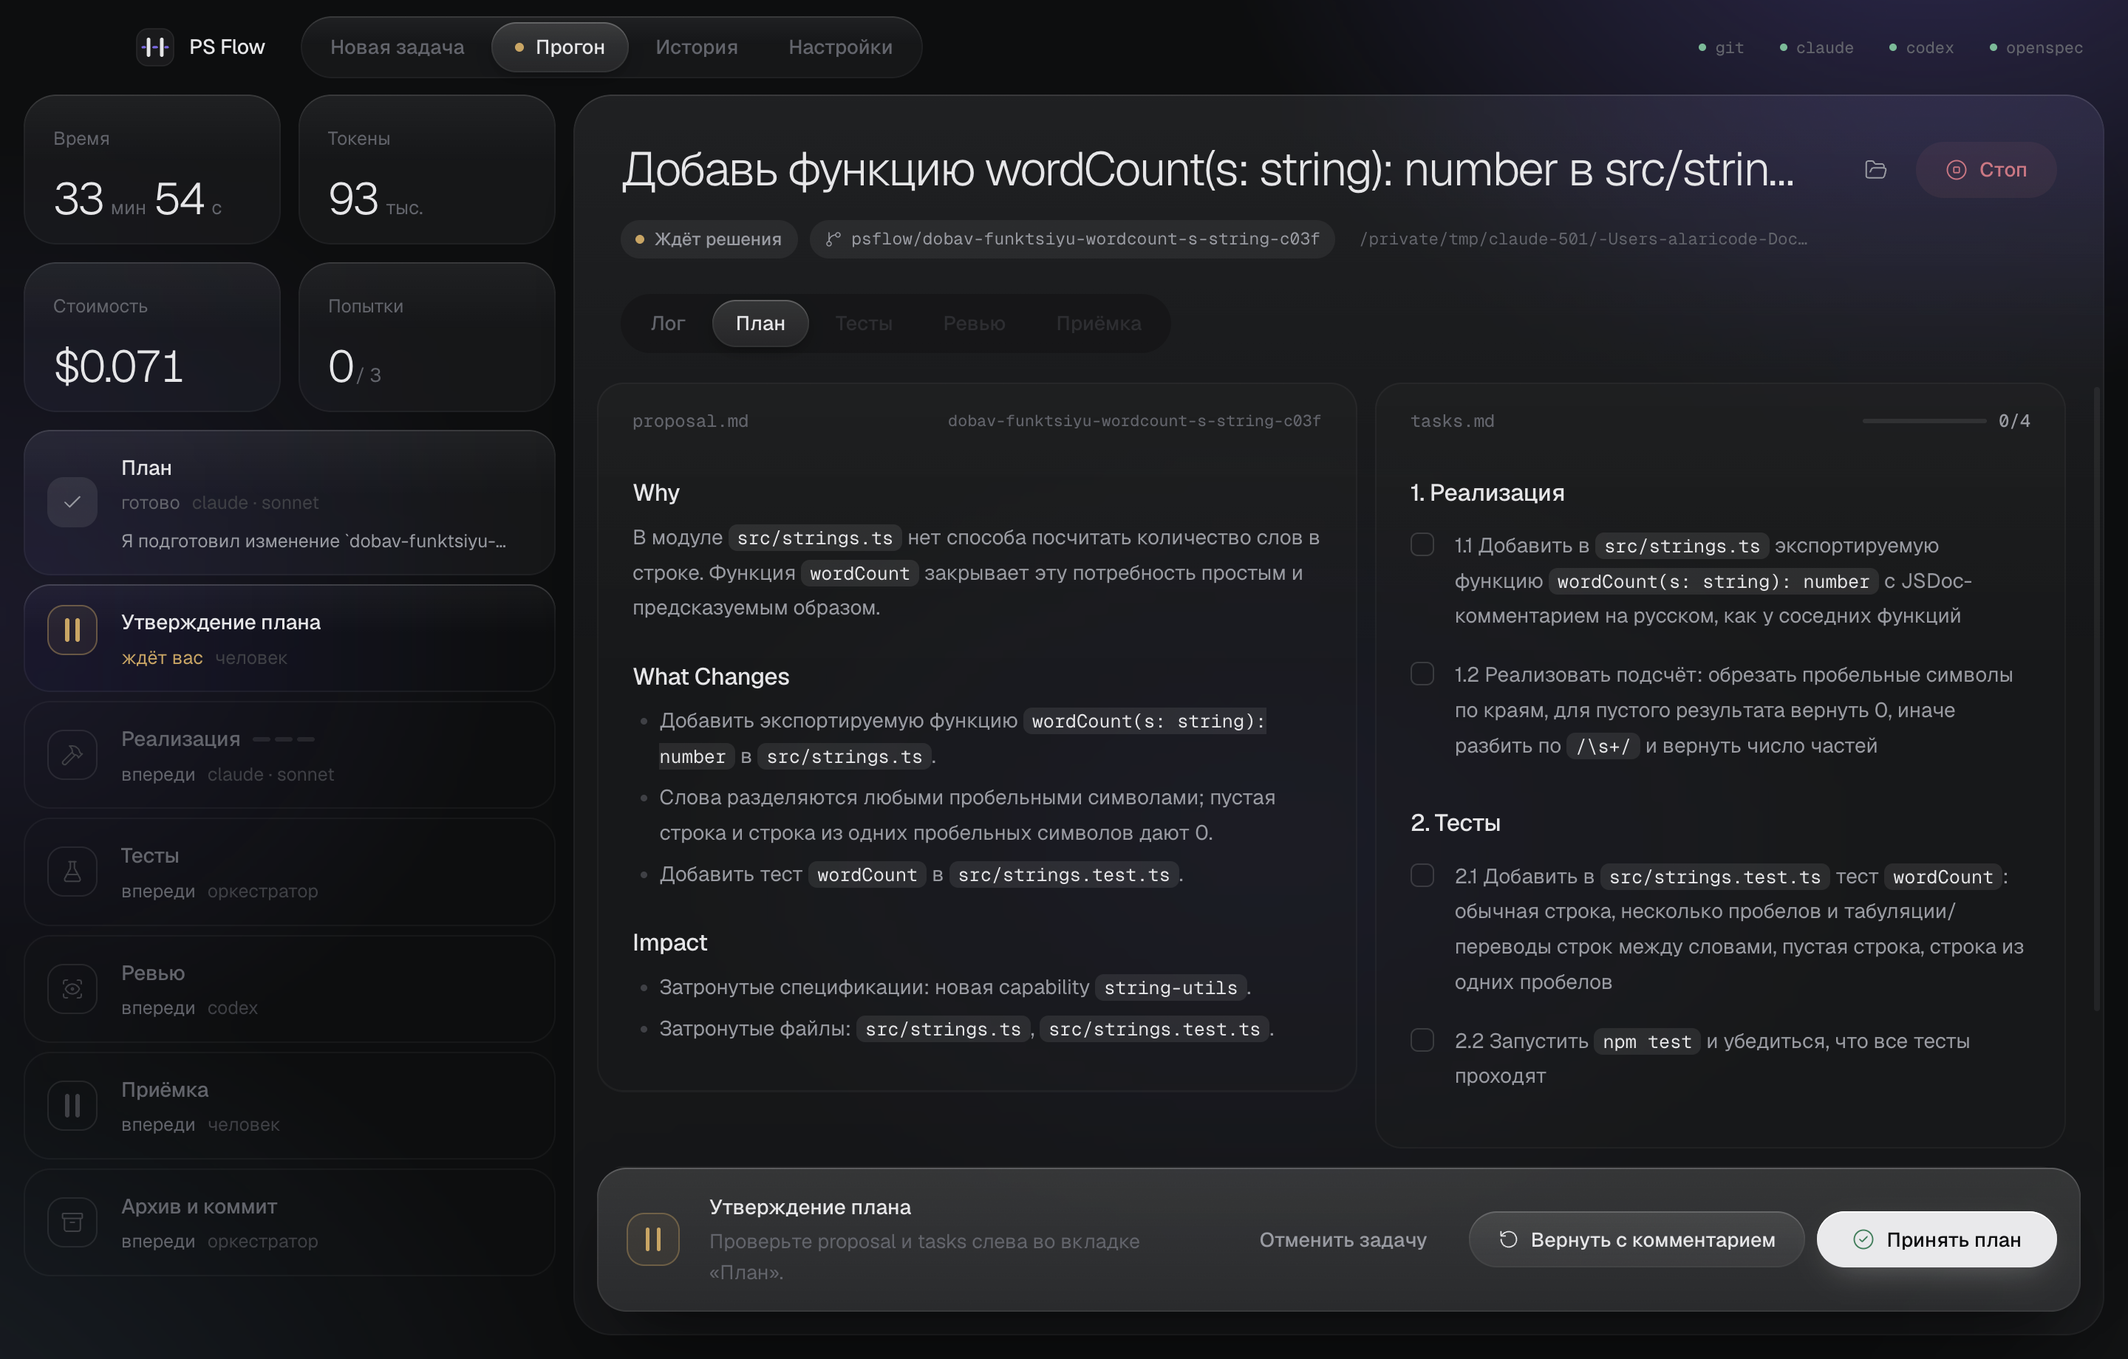
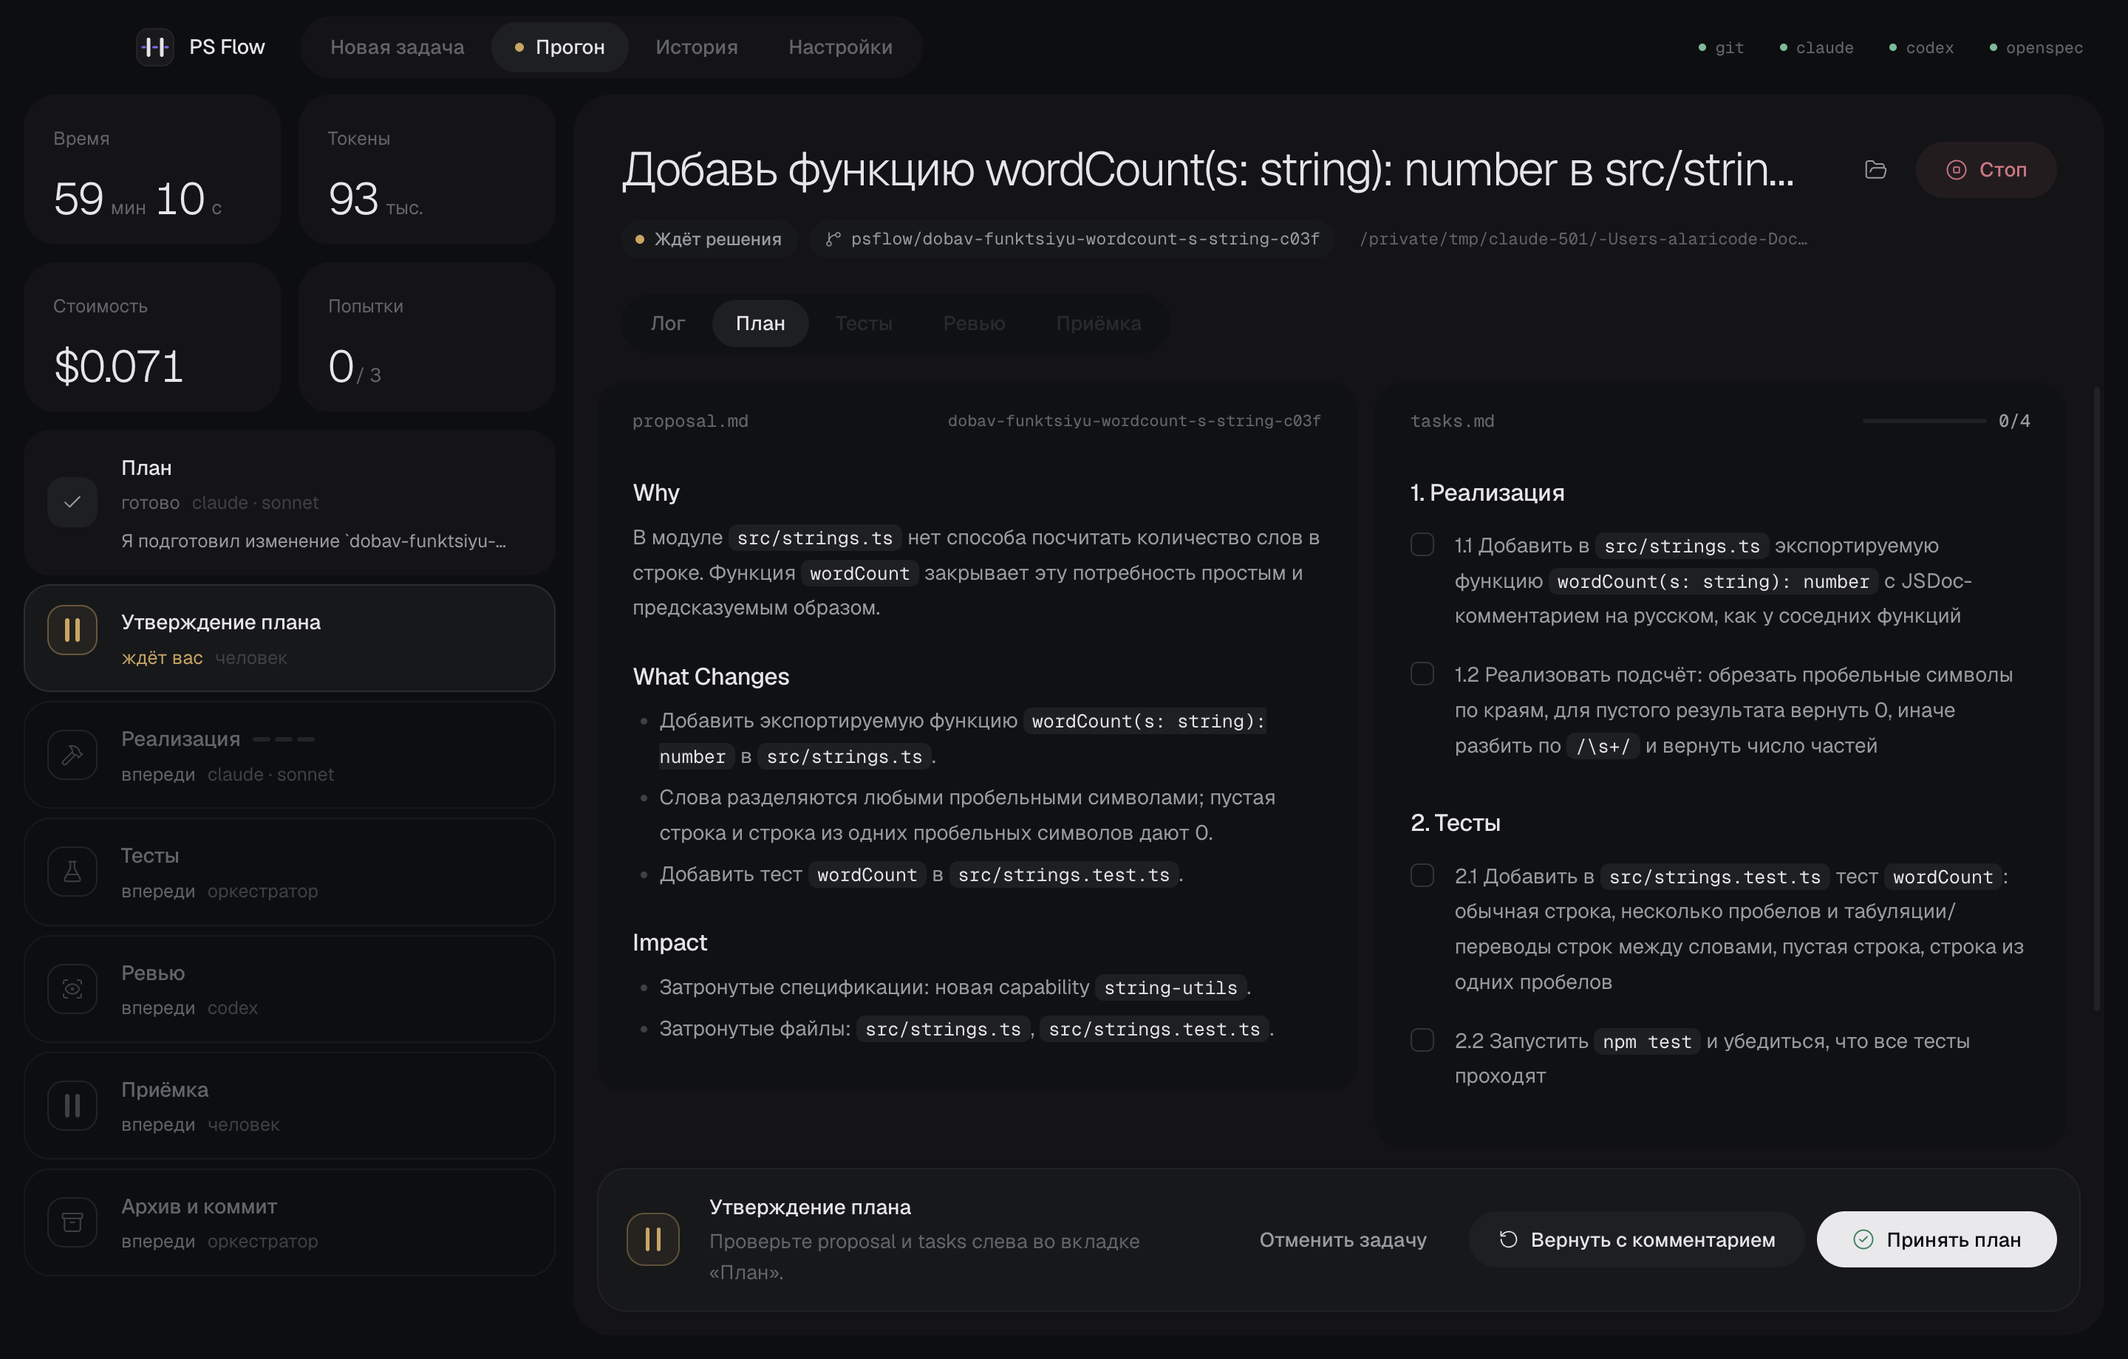
UI: без стекла — тёмные плоские плашки в обоих режимах окна
Убраны блюр, блики, грани и фоновое освещение. В непрозрачном окне плашки
плотные тёмные, в прозрачном — те же тёмные, полупрозрачные.

diff --git a/app/src/renderer/src/styles/app.css b/app/src/renderer/src/styles/app.css
@@ -58,7 +58,7 @@ body::after {
   transition: background 0.3s var(--ease), color 0.3s var(--ease);
 }
 .navpill:hover:not(:disabled) { color: var(--text-1); }
-.navpill.is-on { background: var(--bg-5); color: var(--text-1); box-shadow: inset 0 1px 0 rgba(255, 255, 255, 0.06); }
+.navpill.is-on { background: var(--bg-5); color: var(--text-1); }
 .navpill:disabled { opacity: 0.35; }
 .navdot { width: 6px; height: 6px; border-radius: 50%; background: var(--accent-hi); }
 .navdot.running { animation: breathe 1.6s var(--ease-soft) infinite; }
@@ -92,12 +92,12 @@ body::after {
 .btn:active:not(:disabled) { transform: scale(0.97); }
 .btn:disabled { opacity: 0.35; }
 .btn:has(> svg:only-child), .btn:has(> .spinner:only-child) { width: 38px; padding: 0; }
-.btn-primary { color: #fff; background: var(--accent); box-shadow: inset 0 1px 0 rgba(255, 255, 255, 0.18); padding: 0 var(--s-6); }
+.btn-primary { color: #fff; background: var(--accent); padding: 0 var(--s-6); }
 .btn-primary:hover:not(:disabled) { background: #9683f3; }
-.btn-approve { color: #0c0d0f; background: #ececee; box-shadow: inset 0 1px 0 #fff; padding: 0 var(--s-6); }
+.btn-approve { color: #0c0d0f; background: #ececee; padding: 0 var(--s-6); }
 .btn-approve:hover:not(:disabled) { background: #fff; }
 .btn-approve svg { color: #2f8a62; }
-.btn-ghost { background: var(--bg-5); color: var(--text-1); box-shadow: inset 0 1px 0 rgba(255, 255, 255, 0.05); }
+.btn-ghost { background: var(--bg-5); color: var(--text-1); }
 .btn-ghost:hover:not(:disabled) { background: rgba(255, 255, 255, 0.12); }
 .btn-quiet { color: var(--text-2); }
 .btn-quiet:hover:not(:disabled) { background: var(--bg-4); color: var(--text-1); }
@@ -255,7 +255,7 @@ input[type='number'].input { font-variant-numeric: tabular-nums; }
 }
 .station-hit:hover { background: var(--bg-4); }
 .station.st-idle .station-hit, .station.st-stale .station-hit { background: transparent; box-shadow: inset 0 0 0 1px var(--line); }
-.station.st-active .station-hit, .station.st-waiting .station-hit { background: linear-gradient(180deg, rgba(255, 255, 255, 0.085), rgba(255, 255, 255, 0.045)); box-shadow: inset 0 1px 0 rgba(255, 255, 255, 0.11), inset 0 0 0 1px rgba(255, 255, 255, 0.05); }
+.station.st-active .station-hit, .station.st-waiting .station-hit { background: var(--bg-4); box-shadow: inset 0 0 0 1px var(--line-2); }
 .station.is-selected .station-hit { box-shadow: inset 0 0 0 1px var(--line-3); }
 
 .station-node { position: relative; flex: none; width: 34px; height: 34px; display: grid; place-items: center; }
@@ -313,7 +313,7 @@ input[type='number'].input { font-variant-numeric: tabular-nums; }
 .tab { display: inline-flex; align-items: center; gap: var(--s-2); height: 32px; padding: 0 var(--s-4); border-radius: var(--r-pill); color: var(--text-3); font-weight: 500; font-size: var(--fs-13); transition: background 0.3s var(--ease), color 0.3s var(--ease); }
 .tab:hover:not(:disabled) { color: var(--text-1); }
 .tab:disabled { opacity: 0.3; }
-.tab.is-on { color: var(--text-1); background: var(--bg-5); box-shadow: inset 0 1px 0 rgba(255, 255, 255, 0.06); }
+.tab.is-on { color: var(--text-1); background: var(--bg-5); }
 .tab-badge { min-width: 18px; height: 18px; padding: 0 5px; border-radius: var(--r-pill); display: grid; place-items: center; font-size: 10.5px; font-weight: 600; background: var(--bg-4); color: var(--text-2); font-variant-numeric: tabular-nums; }
 .b-mint.tab-badge { color: var(--ok); }
 .b-coral.tab-badge { color: var(--err); }
@@ -409,7 +409,7 @@ button.note-loc:hover { color: var(--text-1); }
 .gatebar {
   flex: none; display: flex; align-items: center; gap: var(--s-5); flex-wrap: wrap;
   margin: 0 var(--s-4) var(--s-4); padding: var(--s-4) var(--s-4) var(--s-4) var(--s-5); border-radius: 20px;
-  background: var(--bg-5); box-shadow: inset 0 1px 0 rgba(255, 255, 255, 0.06), 0 -20px 40px -20px rgba(0, 0, 0, 0.6);
+  background: var(--bg-4); box-shadow: inset 0 0 0 1px var(--line);
 }
 .gatebar.is-gate { animation: rise 0.5s var(--ease); }
 .gate-sign { position: relative; width: 36px; height: 36px; border-radius: 12px; background: var(--wait-wash); box-shadow: inset 0 0 0 1px rgba(214, 173, 102, 0.35); flex: none; }
@@ -514,76 +514,8 @@ button.note-loc:hover { color: var(--text-1); }
 .station.st-active .station-summary, .station.is-selected .station-summary { -webkit-line-clamp: 2; }
 
 
-/* ——— Стекло ———
-   Фоновое освещение неподвижно и лежит под всем интерфейсом;
-   карточки размывают его, поэтому глубина видна без рамок. */
-.app { position: relative; isolation: isolate; }
-.app::before {
-  content: ''; position: fixed; inset: -10%; z-index: -1; pointer-events: none;
-  background:
-    radial-gradient(38% 42% at 82% 4%, rgba(138, 116, 238, 0.20), transparent 70%),
-    radial-gradient(30% 36% at 58% 52%, rgba(120, 104, 210, 0.07), transparent 70%),
-    radial-gradient(42% 48% at 6% 96%, rgba(96, 128, 168, 0.13), transparent 70%),
-    radial-gradient(26% 30% at 30% 18%, rgba(255, 255, 255, 0.025), transparent 70%);
-  filter: blur(10px);
-}
-
-.navpills, .stat, .station-hit, .run-main, .panel, .project, .bezel, .newtask-aside,
-.newtask-main > .grid-2, .gatebar, .side-run {
-  -webkit-backdrop-filter: var(--glass-blur);
-  backdrop-filter: var(--glass-blur);
-}
-.run-main, .panel, .newtask-aside { box-shadow: var(--glass-edge), var(--glass-shadow); }
-.station.st-idle .station-hit, .station.st-stale .station-hit { backdrop-filter: none; -webkit-backdrop-filter: none; }
-
-/* Плавающий гейт — самое «толстое» стекло */
-.gatebar {
-  background: linear-gradient(180deg, rgba(255, 255, 255, 0.10), rgba(255, 255, 255, 0.06));
-  box-shadow: inset 0 1px 0 rgba(255, 255, 255, 0.14), inset 0 0 0 1px rgba(255, 255, 255, 0.06), 0 24px 48px -16px rgba(0, 0, 0, 0.7);
-  -webkit-backdrop-filter: blur(36px) saturate(170%);
-  backdrop-filter: blur(36px) saturate(170%);
-}
-.gate-comment { background: rgba(0, 0, 0, 0.3); }
-
-/* Активная пилюля и кнопки — стеклянные капли */
-.navpill.is-on, .tab.is-on {
-  background: linear-gradient(180deg, rgba(255, 255, 255, 0.13), rgba(255, 255, 255, 0.07));
-  box-shadow: inset 0 1px 0 rgba(255, 255, 255, 0.16), inset 0 0 0 1px rgba(255, 255, 255, 0.05), 0 4px 12px -4px rgba(0, 0, 0, 0.5);
-}
-.btn-ghost {
-  background: linear-gradient(180deg, rgba(255, 255, 255, 0.1), rgba(255, 255, 255, 0.055));
-  box-shadow: inset 0 1px 0 rgba(255, 255, 255, 0.13), inset 0 0 0 1px rgba(255, 255, 255, 0.045);
-}
-.btn-primary {
-  background: linear-gradient(180deg, #9a86f4, var(--accent));
-  box-shadow: inset 0 1px 0 rgba(255, 255, 255, 0.28), 0 8px 22px -8px rgba(138, 116, 238, 0.55);
-}
-.btn-primary:hover:not(:disabled) { background: linear-gradient(180deg, #a593f6, #9481f2); }
-.btn-approve { box-shadow: inset 0 1px 0 #fff, 0 8px 22px -10px rgba(255, 255, 255, 0.35); }
-
-/* Внутренние зоны — тёмное утопленное стекло */
-.term, .output { box-shadow: inset 0 1px 2px rgba(0, 0, 0, 0.4), inset 0 0 0 1px rgba(255, 255, 255, 0.03); }
-.diff-main, .doc, .doc.bezel, .verdict, .verdict.bezel { box-shadow: inset 0 0 0 1px rgba(255, 255, 255, 0.035); }
-.input { background: var(--bg-1); }
-
-/* Свет ярче и с разных сторон — стекло ловит его по-разному */
-.app::before {
-  background:
-    radial-gradient(40% 46% at 84% 0%, rgba(138, 116, 238, 0.30), transparent 70%),
-    radial-gradient(28% 40% at 8% 46%, rgba(138, 116, 238, 0.12), transparent 72%),
-    radial-gradient(34% 34% at 58% 60%, rgba(110, 98, 200, 0.08), transparent 70%),
-    radial-gradient(44% 50% at 0% 100%, rgba(90, 130, 175, 0.18), transparent 70%),
-    radial-gradient(30% 34% at 100% 100%, rgba(255, 255, 255, 0.035), transparent 70%);
-}
-
-/* Верхний блик на стекле */
-.stat, .run-main, .panel, .project, .bezel, .newtask-aside, .newtask-main > .grid-2, .navpills,
-.station:not(.st-idle):not(.st-stale) .station-hit {
-  background-image: linear-gradient(180deg, rgba(255, 255, 255, 0.045), rgba(255, 255, 255, 0) 46%);
-}
-.stat:hover, .project:hover, .station-hit:hover { background-color: var(--bg-4); }
-
 .newtask-aside { position: static; }
+.input { background: var(--bg-1); }
 
 /* ——— Инструменты: чистый список с разделителями ——— */
 .tools.bezel { background: none; background-image: none; box-shadow: none; -webkit-backdrop-filter: none; backdrop-filter: none; border-radius: 0; gap: 0; }
@@ -609,38 +541,16 @@ button.note-loc:hover { color: var(--text-1); }
 .switch.is-on i::after { transform: translateX(18px); background: #fff; }
 .switch.is-on { color: var(--text-1); }
 
-/* ——— Нативное стекло окна ———
-   Фон окна прозрачный, ОС размывает рабочий стол; сверху тёмная тонировка,
-   чтобы контраст не зависел от обоев. */
+/* ——— Прозрачное окно ———
+   Фон окна даёт ОС (vibrancy / acrylic), поверх — тёмная тонировка.
+   Плашки те же тёмные и плоские, только полупрозрачные. */
 html[data-material='vibrancy'] body, html[data-material='acrylic'] body { background: transparent; }
-html[data-material='vibrancy'] .app, html[data-material='acrylic'] .app { background: rgba(9, 10, 12, 0.62); }
-html[data-material='vibrancy'] .app::before, html[data-material='acrylic'] .app::before { opacity: 0.75; }
-html[data-material='acrylic'] .app { background: rgba(9, 10, 12, 0.55); }
-.tool-id span { color: var(--text-3); }
-.tool-path { color: var(--text-2); }
-html[data-material='vibrancy'] .app { background: rgba(9, 10, 12, 0.5); }
-html[data-material='acrylic'] .app { background: rgba(9, 10, 12, 0.48); }
-
-/* ——— Прозрачное окно: стекло даёт ОС, плашки — плоские ———
-   Ровная полупрозрачная заливка без блюра, бликов, граней и теней. */
+html[data-material='vibrancy'] .app, html[data-material='acrylic'] .app { background: rgba(9, 10, 12, 0.5); }
 html[data-material='vibrancy'], html[data-material='acrylic'] {
-  --highlight: none;
-  --glass-edge: none;
-  --bg-3: rgba(255, 255, 255, 0.045);
-  --bg-4: rgba(255, 255, 255, 0.07);
-  --bg-5: rgba(255, 255, 255, 0.1);
-  --bg-2: rgba(0, 0, 0, 0.2);
-  --bg-1: rgba(0, 0, 0, 0.22);
-  --bg-0: rgba(0, 0, 0, 0.32);
+  --bg-0: rgba(0, 0, 0, 0.42);
+  --bg-1: rgba(0, 0, 0, 0.3);
+  --bg-2: rgba(0, 0, 0, 0.26);
+  --bg-3: rgba(10, 11, 13, 0.62);
+  --bg-4: rgba(26, 27, 31, 0.7);
+  --bg-5: rgba(255, 255, 255, 0.08);
 }
-html[data-material='vibrancy'] .app::before, html[data-material='acrylic'] .app::before { display: none; }
-html[data-material='vibrancy'] :is(.navpills, .stat, .station-hit, .run-main, .panel, .project, .bezel, .newtask-aside, .newtask-main > .grid-2, .gatebar, .navpill.is-on, .tab.is-on, .btn-ghost, .btn-primary, .btn-approve, .term, .output, .diff-main, .doc, .verdict),
-html[data-material='acrylic'] :is(.navpills, .stat, .station-hit, .run-main, .panel, .project, .bezel, .newtask-aside, .newtask-main > .grid-2, .gatebar, .navpill.is-on, .tab.is-on, .btn-ghost, .btn-primary, .btn-approve, .term, .output, .diff-main, .doc, .verdict) {
-  -webkit-backdrop-filter: none; backdrop-filter: none; background-image: none; box-shadow: none;
-}
-html[data-material='vibrancy'] :is(.navpill.is-on, .tab.is-on, .btn-ghost), html[data-material='acrylic'] :is(.navpill.is-on, .tab.is-on, .btn-ghost) { background-color: var(--bg-5); }
-html[data-material='vibrancy'] .gatebar, html[data-material='acrylic'] .gatebar { background-color: rgba(255, 255, 255, 0.08); }
-html[data-material='vibrancy'] .btn-primary, html[data-material='acrylic'] .btn-primary { background-color: var(--accent); }
-html[data-material='vibrancy'] .station.st-active .station-hit, html[data-material='vibrancy'] .station.st-waiting .station-hit,
-html[data-material='acrylic'] .station.st-active .station-hit, html[data-material='acrylic'] .station.st-waiting .station-hit { background: var(--bg-5); }
-html[data-material='vibrancy'] .station.is-selected .station-hit, html[data-material='acrylic'] .station.is-selected .station-hit { box-shadow: inset 0 0 0 1px var(--line-2); }

diff --git a/app/src/renderer/src/styles/tokens.css b/app/src/renderer/src/styles/tokens.css
@@ -1,28 +1,24 @@
 /*
   PS Flow — тихий графит.
-  Нейтральная тёмная база без цветного оттенка, один акцент PurpleSchool
+  Нейтральная тёмная база, тёмные плоские плашки, один акцент PurpleSchool
   для текущего и главного действия, статусы — маленькими сигналами.
 */
 :root {
   color-scheme: dark;
 
-  /* Почти чёрный фон, поверх — матовое стекло. Поверхности полупрозрачные: сквозь них видно фоновое освещение */
+  /* Почти чёрный фон и тёмные плоские плашки без рамок */
   --bg-window: #0a0b0d;
-  --bg-0: rgba(4, 5, 6, 0.62);          /* терминал, вывод тестов — тёмное утопленное стекло */
-  --bg-1: rgba(0, 0, 0, 0.28);          /* поля ввода */
-  --bg-2: rgba(0, 0, 0, 0.22);          /* утопленные зоны внутри стекла */
-  --bg-3: rgba(255, 255, 255, 0.034);   /* стеклянная карточка */
-  --bg-4: rgba(255, 255, 255, 0.058);   /* выбранное, ховер */
-  --bg-5: rgba(255, 255, 255, 0.085);   /* активная пилюля, контролы */
-
-  --glass-blur: blur(28px) saturate(150%);
-  --glass-edge: inset 0 1px 0 rgba(255, 255, 255, 0.075), inset 0 0 0 1px rgba(255, 255, 255, 0.04);
-  --glass-shadow: 0 30px 60px -30px rgba(0, 0, 0, 0.55);
+  --bg-0: #070809;   /* терминал, вывод тестов */
+  --bg-1: #0c0d0f;   /* поля ввода */
+  --bg-2: #0e0f11;   /* утопленные зоны внутри карточек */
+  --bg-3: #131416;   /* карточка */
+  --bg-4: #18191c;   /* выбранное, ховер */
+  --bg-5: #212226;   /* активная пилюля, контролы */
 
   --line: rgba(255, 255, 255, 0.045);
   --line-2: rgba(255, 255, 255, 0.085);
   --line-3: rgba(255, 255, 255, 0.14);
-  --highlight: var(--glass-edge);
+  --highlight: none;
 
   --text-1: #e9e9eb;
   --text-2: #a3a5ac;
